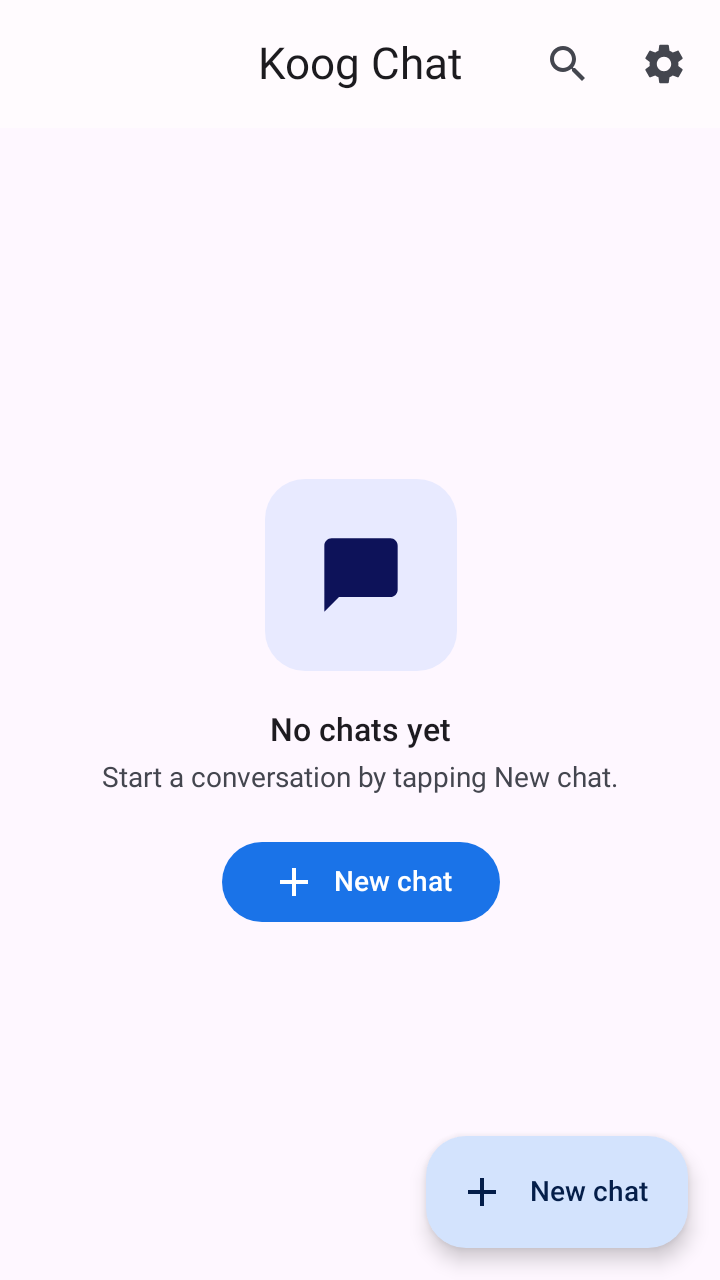
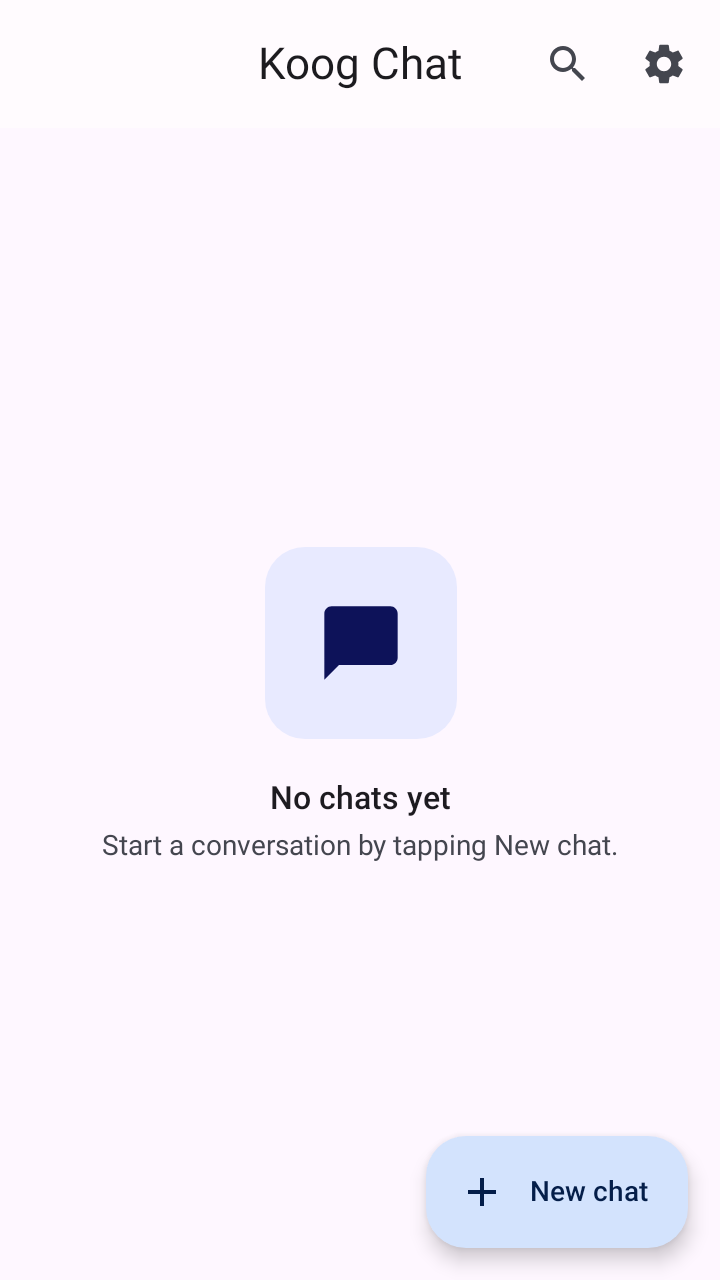
Implement new chat creation logic

Changed region(s): [[0.1528, 0.5625, 0.8556, 0.7188], [0.4278, 0.4062, 0.55, 0.5312]]

diff --git a/ui/uiChatList/src/commonMain/kotlin/koog/chat/ui/chatlist/ChatListViewModel.kt b/ui/uiChatList/src/commonMain/kotlin/koog/chat/ui/chatlist/ChatListViewModel.kt
@@ -21,6 +21,8 @@ import org.koin.core.annotation.KoinViewModel
 import org.koin.core.annotation.Provided
 import kotlin.time.Clock
 import kotlin.time.Instant
+import kotlin.uuid.ExperimentalUuidApi
+import kotlin.uuid.Uuid
 
 @KoinViewModel
 class ChatListViewModel(
@@ -55,13 +57,33 @@ class ChatListViewModel(
                     }
             }.cachedIn(viewModelScope)
 
+    @OptIn(ExperimentalUuidApi::class)
     fun onEvent(event: ChatListViewEvent) {
         viewModelScope.launch {
             when (event) {
-                is ChatListViewEvent.OpenChat -> navigationCallback.openChat(event.chatId)
-                ChatListViewEvent.NewChat -> navigationCallback.openNewChat()
-                ChatListViewEvent.ToggleSearch -> isSearchVisible.value = !isSearchVisible.value
-                is ChatListViewEvent.SearchQueryChanged -> searchQuery.value = event.query
+                is ChatListViewEvent.OpenChat -> {
+                    navigationCallback.openChat(event.chatId)
+                }
+
+                ChatListViewEvent.NewChat -> {
+                    val newId = Uuid.random().toString()
+                    chatRepository.save(
+                        Chat(
+                            id = newId,
+                            title = "Chat with a user",
+                            createdAt = Clock.System.now().toEpochMilliseconds(),
+                        ),
+                    )
+                    navigationCallback.openChat(newId)
+                }
+
+                ChatListViewEvent.ToggleSearch -> {
+                    isSearchVisible.value = !isSearchVisible.value
+                }
+
+                is ChatListViewEvent.SearchQueryChanged -> {
+                    searchQuery.value = event.query
+                }
             }
         }
     }

diff --git a/diApp/src/commonTest/kotlin/koog/chat/di/NewChatFlowCommonTest.kt b/diApp/src/commonTest/kotlin/koog/chat/di/NewChatFlowCommonTest.kt
@@ -1,0 +1,38 @@
+package koog.chat.di
+
+import androidx.compose.ui.test.ComposeTimeoutException
+import androidx.compose.ui.test.ExperimentalTestApi
+import androidx.compose.ui.test.assertIsDisplayed
+import androidx.compose.ui.test.hasContentDescription
+import androidx.compose.ui.test.hasText
+import androidx.compose.ui.test.onNodeWithContentDescription
+import androidx.compose.ui.test.onNodeWithText
+import androidx.compose.ui.test.performClick
+import androidx.compose.ui.test.v2.runComposeUiTest
+import androidx.compose.ui.test.waitUntilAtLeastOneExists
+import androidx.compose.ui.test.waitUntilDoesNotExist
+import kotlin.test.Test
+
+@OptIn(ExperimentalTestApi::class)
+internal class NewChatFlowCommonTest {
+    @Test
+    fun test() =
+        runComposeUiTest {
+            setContent { KoinApp() }
+            awaitIdle()
+            try {
+                waitUntilAtLeastOneExists(hasText("No chats yet"), timeoutMillis = 5_000L)
+            } catch (_: ComposeTimeoutException) {
+                return@runComposeUiTest
+            }
+            onNodeWithText("No chats yet").assertIsDisplayed()
+            onNodeWithText("New chat", useUnmergedTree = true).performClick()
+            awaitIdle()
+            waitUntilAtLeastOneExists(hasContentDescription("Back"), timeoutMillis = 5_000L)
+            onNodeWithContentDescription("Back").performClick()
+            awaitIdle()
+            waitUntilDoesNotExist(hasText("No chats yet"), timeoutMillis = 5_000L)
+            waitUntilAtLeastOneExists(hasText("Chat with a user"), timeoutMillis = 5_000L)
+            onNodeWithText("Chat with a user").assertIsDisplayed()
+        }
+}

diff --git a/diApp/src/jvmMain/kotlin/koog/chat/di/AppStorageProviderJvm.kt b/diApp/src/jvmMain/kotlin/koog/chat/di/AppStorageProviderJvm.kt
@@ -3,26 +3,28 @@ package koog.chat.di
 import androidx.datastore.core.Storage
 import androidx.datastore.core.okio.OkioSerializer
 import androidx.datastore.core.okio.OkioStorage
-import koog.chat.core.common.DispatcherSet
 import koog.chat.core.pref.StorageProvider
-import kotlinx.coroutines.runBlocking
 import okio.FileSystem
 import okio.Path.Companion.toPath
 import org.koin.core.annotation.Single
 import java.io.File
 
 @Single
-internal class AppStorageProviderJvm(
-    private val dispatcherSet: DispatcherSet,
-) : StorageProvider {
-    override fun <T> getStorage(serializer: OkioSerializer<T>): Storage<T> =
-        OkioStorage(
+internal class AppStorageProviderJvm : StorageProvider {
+    override fun <T> getStorage(serializer: OkioSerializer<T>): Storage<T> {
+        val storageFile =
+            File(
+                listOf(
+                    System.getProperty("user.home"),
+                    ".koog-chat",
+                    "datastore",
+                    "app.pref.json",
+                ).joinToString(separator = File.separator),
+            ).also { it.parentFile?.mkdirs() }
+        return OkioStorage(
             fileSystem = FileSystem.SYSTEM,
             serializer = serializer,
-            producePath = {
-                runBlocking(dispatcherSet.ioDispatcher()) {
-                    File.createTempFile("temp_", "app.pref.json").absolutePath.toPath()
-                }
-            },
+            producePath = { storageFile.absolutePath.toPath() },
         )
+    }
 }

diff --git a/diApp/src/commonMain/kotlin/koog/chat/di/KoinApp.kt b/diApp/src/commonMain/kotlin/koog/chat/di/KoinApp.kt
@@ -2,16 +2,20 @@ package koog.chat.di
 
 import androidx.compose.foundation.layout.Box
 import androidx.compose.runtime.Composable
+import androidx.compose.runtime.LaunchedEffect
 import androidx.compose.ui.Modifier
 import androidx.compose.ui.semantics.contentDescription
 import androidx.compose.ui.semantics.semantics
 import androidx.compose.ui.tooling.preview.AndroidUiModes
 import androidx.compose.ui.tooling.preview.Preview
+import koog.chat.core.database.room.RoomDatabaseProvider
+import koog.chat.di.app.IS_DATA_STUB_ENABLED
 import koog.chat.navigation.NavApp
 import koog.chat.navigation.navigationModule
 import koog.chat.ui.common.theme.AppTheme
 import org.koin.compose.KoinApplication
 import org.koin.dsl.KoinConfiguration
+import org.koin.mp.KoinPlatform.getKoin
 import org.koin.plugin.module.dsl.koinConfiguration
 
 @Composable
@@ -23,6 +27,12 @@ fun KoinApp() =
                 modules(navigationModule)
             },
     ) {
+        val koin = getKoin()
+        LaunchedEffect(Unit) {
+            if (IS_DATA_STUB_ENABLED) {
+                koin.get<RoomDatabaseProvider>().database.clearAllTables()
+            }
+        }
         Box(Modifier.semantics { contentDescription = "KoinApp" }) {
             NavApp()
         }

diff --git a/core/coreDatabaseRoom/src/commonMain/kotlin/koog/chat/core/database/room/util/PagingExtensions.kt b/core/coreDatabaseRoom/src/commonMain/kotlin/koog/chat/core/database/room/util/PagingExtensions.kt
@@ -3,12 +3,17 @@ package koog.chat.core.database.room.util
 import androidx.paging.PagingSource
 import androidx.paging.PagingState
 
-fun <Key : Any, Value : Any, NextValue : Any> PagingSource<Key, Value>.map(transform: (Value) -> NextValue): PagingSource<Key, NextValue> =
-    object : PagingSource<Key, NextValue>() {
+fun <Key : Any, Value : Any, NextValue : Any> PagingSource<Key, Value>.map(transform: (Value) -> NextValue): PagingSource<Key, NextValue> {
+    val inner = this
+    return object : PagingSource<Key, NextValue>() {
+        init {
+            inner.registerInvalidatedCallback { invalidate() }
+        }
+
         override fun getRefreshKey(state: PagingState<Key, NextValue>): Key? = null
 
         override suspend fun load(params: LoadParams<Key>): LoadResult<Key, NextValue> =
-            when (val result = this@map.load(params)) {
+            when (val result = inner.load(params)) {
                 is LoadResult.Page -> {
                     LoadResult.Page(
                         data = result.data.map(transform),
@@ -28,3 +33,4 @@ fun <Key : Any, Value : Any, NextValue : Any> PagingSource<Key, Value>.map(trans
                 }
             }
     }
+}

diff --git a/core/coreDatabaseRoom/src/jvmMain/kotlin/koog/chat/core/database/room/JvmRoomDatabaseProvider.kt b/core/coreDatabaseRoom/src/jvmMain/kotlin/koog/chat/core/database/room/JvmRoomDatabaseProvider.kt
@@ -10,10 +10,17 @@ import java.io.File
 internal class JvmRoomDatabaseProvider : RoomDatabaseProvider {
     override val database: AppDatabase by lazy {
         val dbFile =
-            File(System.getProperty("user.home"), ".koog_chat/koog_chat.db")
-                .also { it.parentFile?.mkdirs() }
+            File(
+                listOf(
+                    System.getProperty("user.home"),
+                    ".koog-chat",
+                    "room",
+                    "koog_chat.db",
+                ).joinToString(separator = File.separator),
+            ).also { it.parentFile?.mkdirs() }
         Room
             .databaseBuilder<AppDatabase>(name = dbFile.absolutePath)
+            // .databaseBuilder<AppDatabase>(name = File.createTempFile("temp_", "koog_chat.db").absolutePath)
             .setDriver(driver = BundledSQLiteDriver())
             .setQueryCoroutineContext(context = Dispatchers.IO)
             .build()

diff --git a/ui/uiChatList/src/commonMain/kotlin/koog/chat/ui/chatlist/ChatListScreen.kt b/ui/uiChatList/src/commonMain/kotlin/koog/chat/ui/chatlist/ChatListScreen.kt
@@ -278,18 +278,6 @@ private fun ChatListEmpty(
                 color = MaterialTheme.colorScheme.onSurfaceVariant,
                 textAlign = TextAlign.Center,
             )
-            Spacer(modifier = Modifier.height(20.dp))
-            Button(
-                onClick = onNewChat,
-                shape = CircleShape,
-            ) {
-                Icon(
-                    imageVector = vectorResource(Res.drawable.ic_add),
-                    contentDescription = null,
-                    modifier = Modifier.padding(end = 8.dp),
-                )
-                Text(stringResource(Res.string.new_chat))
-            }
         }
     }
 }

diff --git a/buildSrc/src/main/kotlin/LocalPropertiesUtils.kt b/buildSrc/src/main/kotlin/LocalPropertiesUtils.kt
@@ -1,0 +1,7 @@
+import java.util.Properties
+
+fun isDataStubEnabled(properties: () -> Properties) =
+    (
+        System.getProperty("IS_DATA_STUB_ENABLED")
+            ?: properties().getProperty("IS_DATA_STUB_ENABLED")
+    ).toBoolean()

diff --git a/README.MD b/README.MD
@@ -7,29 +7,29 @@ To run the application on android device/emulator:
 To build the application bundle:
 - run `./gradlew app:androidApp:assembleDebug app:androidApp:assembleRelease`
 - find `.apk` file in `app/androidApp/build/outputs/apk/debug/androidApp-debug.apk`
-- Run android UI tests on the virtual device: `./gradlew managedVirtualDeviceDebugAndroidTest managedVirtualDeviceAndroidDeviceTest -Pandroid.testoptions.manageddevices.emulator.gpu=swiftshader_indirect`
+- Run android UI tests on the virtual device: `./gradlew managedVirtualDeviceDebugAndroidTest managedVirtualDeviceAndroidDeviceTest -Pandroid.testoptions.manageddevices.emulator.gpu=swiftshader_indirect -DIS_DATA_STUB_ENABLED=true`
 
 ### Desktop
 Run the desktop application: `./gradlew :app:desktopApp:run`  
 Run the desktop **hot reload** application: `./gradlew :app:desktopApp:hotRun --auto`
-Run desktop UI tests: `./gradlew jvmTest`
+Run desktop UI tests: `./gradlew jvmTest -DIS_DATA_STUB_ENABLED=true`
 
 ### iOS
 To run the application on iPhone device/simulator:
 - Open `iosApp/iosApp.xcproject` in Xcode and run standard configuration
 - Or use [Kotlin Multiplatform Mobile plugin](https://plugins.jetbrains.com/plugin/14936-kotlin-multiplatform-mobile) for Android Studio
 - Build iOS: `./gradlew ciIos`
-- Run iOS simulator UI tests: `./gradlew iosSimulatorArm64Test`
+- Run iOS simulator UI tests: `./gradlew iosSimulatorArm64Test -DIS_DATA_STUB_ENABLED=true`
 
 ### JS Browser
 Run the browser application: `./gradlew :app:webApp:jsBrowserDevelopmentRun`
-Run browser UI tests: `./gradlew jsBrowserTest`
+Run browser UI tests: `./gradlew jsBrowserTest -DIS_DATA_STUB_ENABLED=true`
 Build web distribution: `./gradlew :app:webApp:jsBrowserDistribution`  
 Deploy a dir `app/webApp/build/dist/js/productionExecutable` to a web server
 
 ### Wasm Browser
 Run the browser application: `./gradlew :app:webApp:wasmJsBrowserDevelopmentRun`  
-Run browser UI tests: `./gradlew wasmJsBrowserTest`
+Run browser UI tests: `./gradlew wasmJsBrowserTest -DIS_DATA_STUB_ENABLED=true`
 Build web distribution: `./gradlew :app:webApp:wasmJsBrowserDistribution`  
 Deploy a dir `app/webApp/build/dist/wasmJs/productionExecutable` to a web server
 
@@ -38,4 +38,4 @@ Deploy a dir `app/webApp/build/dist/wasmJs/productionExecutable` to a web server
 - launch ktlint, detekt and lint checks: `./gradlew ktlintCheck detekt lint`
 
 ### Screenshot Testing
-Record a screenshot: `./gradlew recordRoborazzi`
+Record a screenshot: `./gradlew recordRoborazzi -DIS_DATA_STUB_ENABLED=true`
